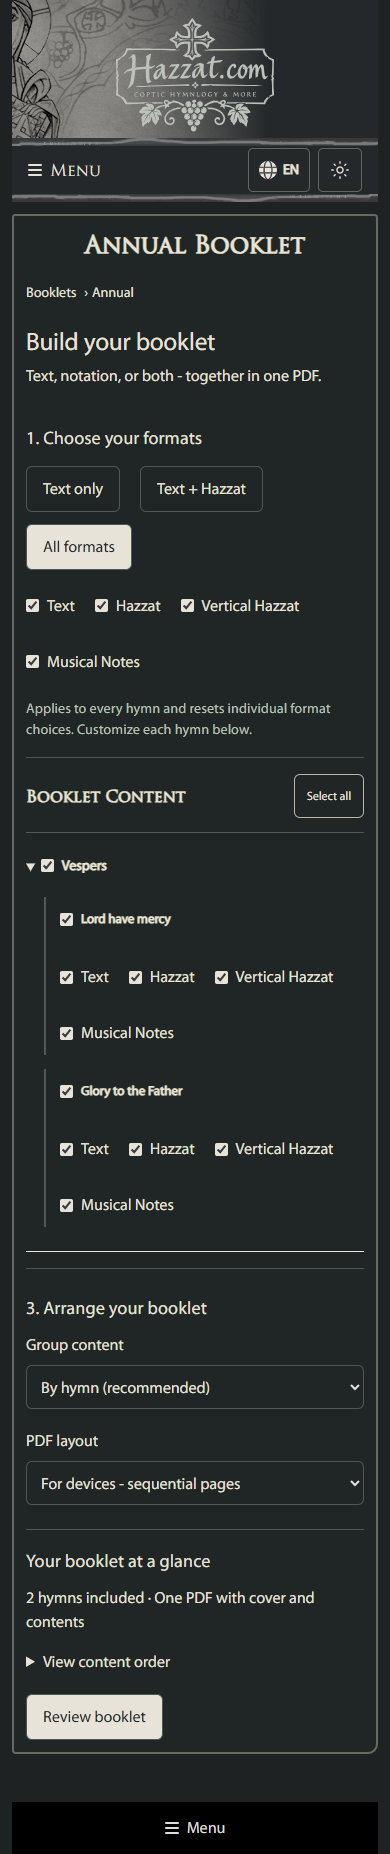
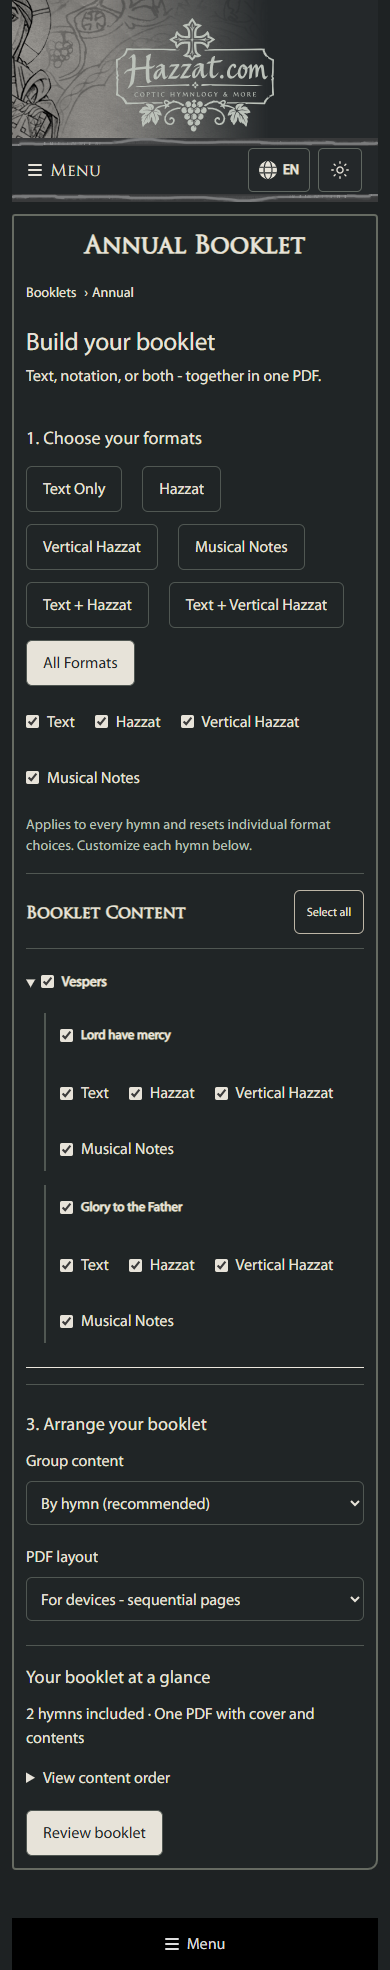
Add season-aware booklet format presets

diff --git a/src/Components/BookletDetails.test.tsx b/src/Components/BookletDetails.test.tsx
@@ -66,13 +66,15 @@ describe("booklet builder", () => {
     });
 
     it("requires an explicit choice before omitting unavailable formats and disables empty booklets", async () => {
+        const partial = { ...service, hymns: [...service.hymns!, { ...service.hymns![0], id: "second", name: "Second hymn", displayName: "Second hymn", formats: [service.hymns![0].formats![1]] }] };
+        jest.spyOn(HymnsDataProvider.prototype, "getServiceList").mockResolvedValue([partial]);
         await openBuilder();
-        fireEvent.click(screen.getByRole("button", { name: "All formats" }));
+        fireEvent.click(screen.getByRole("button", { name: "Text + Hazzat" }));
         expect(screen.getByRole("button", { name: "Review booklet" })).toBeDisabled();
-        expect(screen.getByRole("status")).toHaveTextContent("First hymn: Vertical Hazzat");
+        expect(screen.getByRole("status")).toHaveTextContent("Second hymn: Text");
         fireEvent.click(screen.getByLabelText(/Include available content/));
         expect(screen.getByRole("button", { name: "Review booklet" })).toBeEnabled();
-        fireEvent.click(screen.getByRole("button", { name: "Text only" }));
+        fireEvent.click(screen.getByRole("button", { name: "Hazzat", exact: true }));
         expect(screen.queryByText(/Some selected formats/)).not.toBeInTheDocument();
         fireEvent.click(screen.getByRole("checkbox", { name: "Vespers" }));
         expect(screen.getByRole("button", { name: "Review booklet" })).toBeDisabled();
@@ -106,7 +108,7 @@ describe("booklet builder", () => {
         generator.mockImplementationOnce(() => new Promise(resolve => { finish = resolve; }));
         const { unmount } = await openBuilder();
         fireEvent.click(screen.getByRole("button", { name: "Review booklet" }));
-        expect(screen.getByRole("button", { name: "All formats" })).toBeDisabled();
+        expect(screen.getByRole("button", { name: "Text Only" })).toBeDisabled();
         unmount();
         await act(async () => finish(new Uint8Array([1])));
         expect(revokeUrl).toHaveBeenCalledWith("blob:booklet-preview");
@@ -121,20 +123,61 @@ describe("booklet builder", () => {
         expect(getMissingBookletFormats([service], { ...selection, formats: { "annual/vespers/first": [] } }, ["regular"])).toHaveLength(1);
     });
 
-    it("allows a musical-notes-only booklet and includes scores with All formats", async () => {
+    it("allows a musical-notes-only booklet from its preset", async () => {
         const withMusic = JSON.parse(JSON.stringify(service)) as IServiceInfo;
         withMusic.hymns![0].formats!.push({ id: "4", name: "Musical Notes", order: 4, variationCount: 1, variations: [{
             id: "score", name: "Score", displayName: "Score", content: { contentType: ContentType.MusicalNotesContent, musicXml: "<score-partwise />" }
         }] });
         jest.spyOn(HymnsDataProvider.prototype, "getServiceList").mockResolvedValue([withMusic]);
         const { container } = await openBuilder();
-        fireEvent.click(screen.getByRole("button", { name: "All formats" }));
+        fireEvent.click(screen.getByRole("button", { name: "Musical Notes", exact: true }));
         const global = container.querySelector('fieldset > .bookletFormatChoices') as HTMLElement;
         expect(within(global).getByRole("checkbox", { name: "Musical Notes", exact: true })).toBeChecked();
-        for (const name of ["Text", "Hazzat", "Vertical Hazzat"]) fireEvent.click(within(global).getByRole("checkbox", { name, exact: true }));
         fireEvent.click(screen.getByRole("button", { name: "Review booklet" }));
         const link = await screen.findByRole("link", { name: "Download PDF" });
         expect(generator).toHaveBeenLastCalledWith(expect.objectContaining({ formatKinds: ["musical"] }));
         expect(link).toHaveAttribute("download", "annual-musical-notes-booklet-display.pdf");
+    });
+
+    it("hides season formats and presets that have no content, including individual hymn options", async () => {
+        const { container } = await openBuilder();
+        expect(screen.queryByRole("button", { name: "Vertical Hazzat", exact: true })).not.toBeInTheDocument();
+        expect(screen.queryByRole("button", { name: "Text + Vertical Hazzat", exact: true })).not.toBeInTheDocument();
+        expect(screen.queryByRole("button", { name: "Musical Notes", exact: true })).not.toBeInTheDocument();
+        expect(screen.queryByRole("checkbox", { name: "Vertical Hazzat", exact: true })).not.toBeInTheDocument();
+        expect(screen.queryByRole("checkbox", { name: "Musical Notes", exact: true })).not.toBeInTheDocument();
+        expect(screen.getByRole("button", { name: "Text Only" })).toBeInTheDocument();
+        fireEvent.click(screen.getByRole("button", { name: "Text Only" }));
+        fireEvent.click(screen.getByRole("button", { name: "All Formats" }));
+        const global = container.querySelector('fieldset > .bookletFormatChoices') as HTMLElement;
+        expect(within(global).getAllByRole("checkbox")).toHaveLength(2);
+        within(global).getAllByRole("checkbox").forEach(input => expect(input).toBeChecked());
+    });
+
+    it("offers the six requested presets plus All Formats when every format is available", async () => {
+        const all = JSON.parse(JSON.stringify(service)) as IServiceInfo;
+        all.hymns![0].formats!.push(
+            { id: "3", name: "Vertical Hazzat", order: 3, variationCount: 1, variations: [{ id: "vertical", name: "Standard", displayName: "Standard", content: { contentType: ContentType.VerticalHazzatContent, englishVerticalHazzat: "Lord", copticVerticalHazzat: "", arabicVerticalHazzat: "" } }] },
+            { id: "4", name: "Musical Notes", order: 4, variationCount: 1, variations: [{ id: "score", name: "Score", displayName: "Score", content: { contentType: ContentType.MusicalNotesContent, musicXml: "<score-partwise />" } }] }
+        );
+        jest.spyOn(HymnsDataProvider.prototype, "getServiceList").mockResolvedValue([all]);
+        const { container } = await openBuilder();
+        const labels = ["Text Only", "Hazzat", "Vertical Hazzat", "Musical Notes", "Text + Hazzat", "Text + Vertical Hazzat", "All Formats"];
+        const choices = [["Text"], ["Hazzat"], ["Vertical Hazzat"], ["Musical Notes"], ["Text", "Hazzat"], ["Text", "Vertical Hazzat"], ["Text", "Hazzat", "Vertical Hazzat", "Musical Notes"]];
+        expect(Array.from(container.querySelectorAll('.bookletChoice')).map(button => button.textContent)).toEqual(labels);
+        const global = container.querySelector('fieldset > .bookletFormatChoices') as HTMLElement;
+        labels.forEach((label, i) => {
+            fireEvent.click(screen.getByRole("button", { name: label, exact: true }));
+            expect(within(global).getAllByRole("checkbox").filter(input => (input as HTMLInputElement).checked).map(input => input.parentElement!.textContent)).toEqual(choices[i]);
+        });
+    });
+
+    it("starts with an available preset when the season only has musical notes", async () => {
+        const onlyMusic = { ...service, hymns: [{ ...service.hymns![0], formats: [{ id: "4", name: "Musical Notes", order: 4, variationCount: 1, variations: [{ id: "score", name: "Score", displayName: "Score", content: { contentType: ContentType.MusicalNotesContent, musicXml: "<score-partwise />" } }] }] }] };
+        jest.spyOn(HymnsDataProvider.prototype, "getServiceList").mockResolvedValue([onlyMusic]);
+        await openBuilder();
+        expect(screen.getByRole("button", { name: "Musical Notes", exact: true })).toHaveAttribute("aria-pressed", "true");
+        expect(screen.queryByRole("button", { name: "Text Only" })).not.toBeInTheDocument();
+        expect(screen.getByRole("button", { name: "Review booklet" })).toBeEnabled();
     });
 });

diff --git a/src/Components/BookletDetails.tsx b/src/Components/BookletDetails.tsx
@@ -8,6 +8,7 @@ import {
     generateSeasonBookletPdf,
     getBookletFileName,
     getBookletSections,
+    hasBookletFormat,
     hasBookletVariationContent
 } from "../Booklets/BookletPdfGenerator";
 import { EnvironmentContext } from "../Contexts/Environment/EnvironmentContext";
@@ -73,6 +74,9 @@ function BookletDetails() {
                 setSeasonInfo(seasonResponse);
                 setServices(sorted);
                 setSelection(createDefaultSelection(sorted));
+                const available = bookletFormatKinds.filter(kind => hasBookletFormat(sorted, kind));
+                const preferred = available.filter(kind => kind === "text" || kind === "regular");
+                setFormats(preferred.length ? preferred : available.slice(0, 1));
                 setErrorMessage(undefined);
             }
         } catch {
@@ -149,6 +153,16 @@ function BookletDetails() {
     const sections = getBookletSections(selectedServices, bookletFormatKinds, grouping);
     const missing = getMissingBookletFormats(services, selection, formats);
     const busy = !!activeDownload;
+    const availableFormats = bookletFormatKinds.filter(kind => hasBookletFormat(services, kind));
+    const presets: { kinds: BookletFormatKind[]; label: string }[] = [
+        { kinds: ["text"], label: strings.bookletTextOnly },
+        { kinds: ["regular"], label: strings.hazzatFormatName },
+        { kinds: ["vertical"], label: strings.verticalHazzatFormatName },
+        { kinds: ["musical"], label: strings.musicalNotesLinkSuffix },
+        { kinds: ["text", "regular"], label: strings.bookletTextHazzat },
+        { kinds: ["text", "vertical"], label: strings.bookletTextVerticalHazzat },
+        { kinds: availableFormats, label: strings.bookletAllFormats }
+    ];
     const applyFormats = (next: BookletFormatKind[]) => {
         setFormats(next);
         setSelection(current => ({ ...current, formats: {} }));
@@ -176,15 +190,15 @@ function BookletDetails() {
                 <fieldset disabled={busy}>
                 <legend>{strings.bookletChooseFormats}</legend>
                 <div className="bookletPresetRow">
-                    {[["text"], ["text", "regular"], bookletFormatKinds].map((preset, i) => (
-                        <button key={i} type="button" className="bookletChoice" aria-pressed={preset.join() === formats.join()}
-                            onClick={() => applyFormats(preset as BookletFormatKind[])}>
-                            {[strings.bookletTextOnly, strings.bookletTextHazzat, strings.bookletAllFormats][i]}
+                    {presets.filter(preset => preset.kinds.length > 0 && preset.kinds.every(kind => availableFormats.includes(kind))).map(preset => (
+                        <button key={preset.label} type="button" className="bookletChoice" aria-pressed={preset.kinds.join() === formats.join()}
+                            onClick={() => applyFormats(preset.kinds)}>
+                            {preset.label}
                         </button>
                     ))}
                 </div>
                 <div className="bookletFormatChoices">
-                    {bookletFormatKinds.map(kind => <label key={kind}>
+                    {availableFormats.map(kind => <label key={kind}>
                         <input type="checkbox" checked={formats.includes(kind)} onChange={event =>
                             applyFormats(bookletFormatKinds.filter(k => k === kind ? event.target.checked : formats.includes(k)))} />
                         {getFormatName(kind)}
@@ -196,6 +210,7 @@ function BookletDetails() {
                     selection={selection}
                     onSelectionChange={setSelection}
                     formats={formats}
+                    availableFormats={availableFormats}
                 />
                 <h3>{strings.bookletArrange}</h3>
                 <div className="bookletLayoutChoices">
@@ -256,6 +271,7 @@ interface BookletContentSelectorProps {
     selection: BookletSelectionState;
     onSelectionChange: React.Dispatch<React.SetStateAction<BookletSelectionState>>;
     formats: BookletFormatKind[];
+    availableFormats: BookletFormatKind[];
 }
 
 function BookletContentSelector(props: BookletContentSelectorProps) {
@@ -300,7 +316,7 @@ function BookletContentSelector(props: BookletContentSelectorProps) {
                                     </label>
 
                                     <div className="bookletFormatChoices">
-                                        {bookletFormatKinds.map(kind => <label key={kind}>
+                                        {props.availableFormats.map(kind => <label key={kind}>
                                             <input type="checkbox" checked={(props.selection.formats?.[hymnKey(service, hymn)] ?? props.formats).includes(kind)}
                                                 onChange={event => {
                                                     const checked = event.target.checked;

diff --git a/src/l8n.ts b/src/l8n.ts
@@ -24,9 +24,10 @@ export const strings = new LocalizedStrings({
         buildBooklet: "Build your booklet",
         buildBookletDescription: "Text, notation, or both - together in one PDF.",
         bookletChooseFormats: "1. Choose your formats",
-        bookletTextOnly: "Text only",
+        bookletTextOnly: "Text Only",
         bookletTextHazzat: "Text + Hazzat",
-        bookletAllFormats: "All formats",
+        bookletTextVerticalHazzat: "Text + Vertical Hazzat",
+        bookletAllFormats: "All Formats",
         bookletFormatsHint: "Applies to every hymn and resets individual format choices. Customize each hymn below.",
         bookletArrange: "3. Arrange your booklet",
         bookletGroupContent: "Group content",
@@ -317,6 +318,7 @@ export const strings = new LocalizedStrings({
         bookletChooseFormats: "١. اختر التنسيقات",
         bookletTextOnly: "النص فقط",
         bookletTextHazzat: "النص والهزات",
+        bookletTextVerticalHazzat: "النص والهزات العمودية",
         bookletAllFormats: "جميع التنسيقات",
         bookletFormatsHint: "يُطبّق على جميع الألحان ويعيد تعيين اختيارات التنسيق الفردية. يمكنك تخصيص كل لحن أدناه.",
         bookletArrange: "٣. رتّب كتيّبك",
